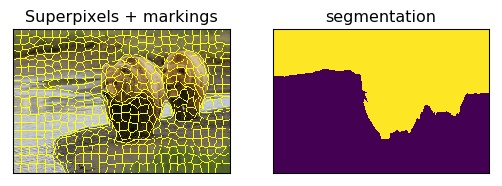
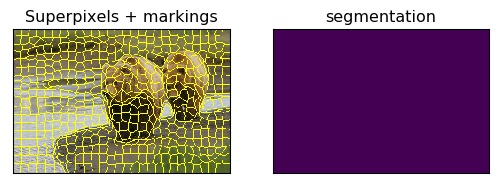
Replaced Delaunay

Changed region(s): [[0.5378, 0.1613, 0.9861, 0.7527]]

diff --git a/algorithms/algorithms.py b/algorithms/algorithms.py
@@ -6,7 +6,6 @@ import histograms
 import argparse
 import copy
 import coseg
-from scipy.spatial import Delaunay
 import matplotlib.pyplot as plt
 from skimage.segmentation import mark_boundaries
 from skimage.segmentation import find_boundaries
@@ -24,7 +23,7 @@ class Algorithms:
         self.imgs_cosegmented = dict()
 
     # generate super-pixel segments for all images using SLIC
-    def slic(self, num_segments, compactness=10.0, max_item=10, sigma=5):
+    def compute_superpixels_slic(self, num_segments, compactness=10.0, max_item=10, sigma=5):
         for image in self.images:
             self.imgs_float64[image] = slic.read_image_as_float64(image)
             self.imgs_segmentation[image] = slic.get_segmented_image(self.imgs_float64[image], num_segments,
@@ -33,7 +32,7 @@ class Algorithms:
 
     # generate hsv histograms for every segment in all images
     # also generates normalized versions
-    def hsv_histograms(self, bins_H=20, bins_S=20, range_H=None, range_S=None):
+    def compute_histograms_hsv(self, bins_H=20, bins_S=20, range_H=None, range_S=None):
         if range_S is None:
             range_S = [0, 1]
         if range_H is None:
@@ -47,13 +46,19 @@ class Algorithms:
 
             self.imgs_hsv_histograms_normalized[img] = np.float32([h / h.sum() for h in self.imgs_hsv_histograms[img]])
 
-    def perform_cosegmentation(self, fg_segments, bg_segments):
-        # find the neighbor segments of each segment using Delaunay triangulation
+    # compute the neighbor segments of each segment
+    def compute_neighbors(self):
         for img in self.images:
-            centers = np.array([np.mean(np.nonzero(self.imgs_segmentation[img] == i), axis=1)
-                                for i in self.imgs_segment_ids[img]])
-            self.imgs_segment_neighbors[img] = Delaunay(centers).vertex_neighbor_vertices
+            vs_right = np.vstack([self.imgs_segmentation[img][:, :-1].ravel(), self.imgs_segmentation[img][:, 1:].ravel()])
+            vs_below = np.vstack([self.imgs_segmentation[img][:-1, :].ravel(), self.imgs_segmentation[img][1:, :].ravel()])
+            neighbor_edges = np.unique(np.hstack([vs_right, vs_below]), axis=1)
+            self.imgs_segment_neighbors[img] = [[] for x in self.imgs_segment_ids[img]]
+            for i in range(len(neighbor_edges[0])):
+                if neighbor_edges[0][i] != neighbor_edges[1][i]:
+                    self.imgs_segment_neighbors[img][neighbor_edges[0][i]].append(neighbor_edges[1][i])
+                    self.imgs_segment_neighbors[img][neighbor_edges[1][i]].append(neighbor_edges[0][i])
 
+    def compute_cosegmentations(self, fg_segments, bg_segments):
         # get cumulative BG/FG histograms, being the sum of the selected superpixel IDs normalized
         h_fg = None
         h_bg = None
@@ -135,19 +140,18 @@ def main():
 
     alg = Algorithms(image_paths)
 
-    alg.slic(500)
-    alg.save_segmented_images('output/superpixel')
+    # Segment the images into superpixels using slic and compute for each superpixel a list of its neighbors
+    alg.compute_superpixels_slic(500)
+    alg.compute_neighbors()
 
-    alg.hsv_histograms()
+    # Extract features
+    alg.compute_histograms_hsv()
 
-    boundaries = alg.get_segment_boundaries('images/bear1.jpg')
-
-    print(boundaries)
-    # io.imsave('bear1.jpg', boundaries)
-
+    # Build a list of foreground and background segment dictionaries
+    # structure should be e.g. fg_segments = {'image_path': [1,2,3], 'image_path': [4,5,6]}
     fg_segments, bg_segments = alg.get_fg_bg_from_markings()
 
-    alg.perform_cosegmentation(fg_segments, bg_segments)
+    alg.compute_cosegmentations(fg_segments, bg_segments)
 
     alg.plot_cosegmentations()
 

diff --git a/algorithms/coseg.py b/algorithms/coseg.py
@@ -70,10 +70,9 @@ def do_graph_cut(fgbg_hists, fgbg_superpixels, norm_hists, neighbors):
     hist_comp_alg = cv2.HISTCMP_KL_DIV
 
     # Smoothness term: cost between neighbors
-    indptr,indices = neighbors
-    for i in range(len(indptr)-1):
-        N = indices[indptr[i]:indptr[i+1]] # list of neighbor superpixels
-        hi = norm_hists[i]                 # histogram for center
+    for i in range(len(neighbors)):
+        N = neighbors[i]    # list of neighbor superpixels
+        hi = norm_hists[i]  # histogram for center
         for n in N:
             if (n < 0) or (n > num_nodes):
                 continue
@@ -81,17 +80,17 @@ def do_graph_cut(fgbg_hists, fgbg_superpixels, norm_hists, neighbors):
             # histogram matching
             hn = norm_hists[n]             # histogram for neighbor
             g.add_edge(nodes[i], nodes[n], 20-cv2.compareHist(hi, hn, hist_comp_alg),
-                                           20-cv2.compareHist(hn, hi, hist_comp_alg))
+                       20-cv2.compareHist(hn, hi, hist_comp_alg))
 
     # Match term: cost to FG/BG
-    for i,h in enumerate(norm_hists):
+    for i, h in enumerate(norm_hists):
         if i in fgbg_superpixels[0]:
             g.add_tedge(nodes[i], 0, 1000) # FG - set high cost to BG
         elif i in fgbg_superpixels[1]:
             g.add_tedge(nodes[i], 1000, 0) # BG - set high cost to FG
         else:
             g.add_tedge(nodes[i], cv2.compareHist(fgbg_hists[0], h, hist_comp_alg),
-                                  cv2.compareHist(fgbg_hists[1], h, hist_comp_alg))
+                        cv2.compareHist(fgbg_hists[1], h, hist_comp_alg))
 
     g.maxflow()
     return g.get_grid_segments(nodes)
